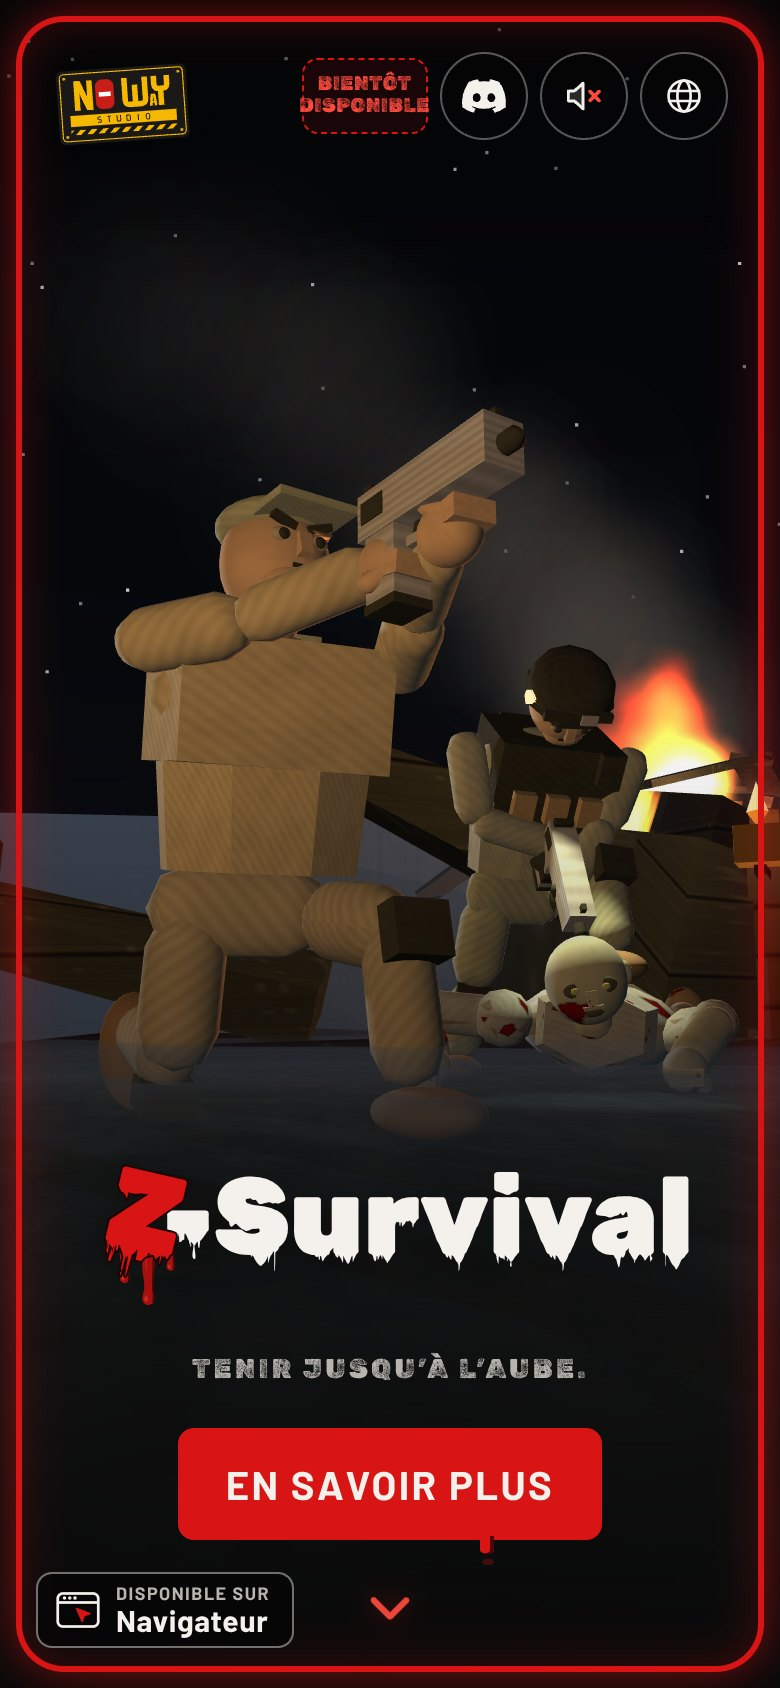
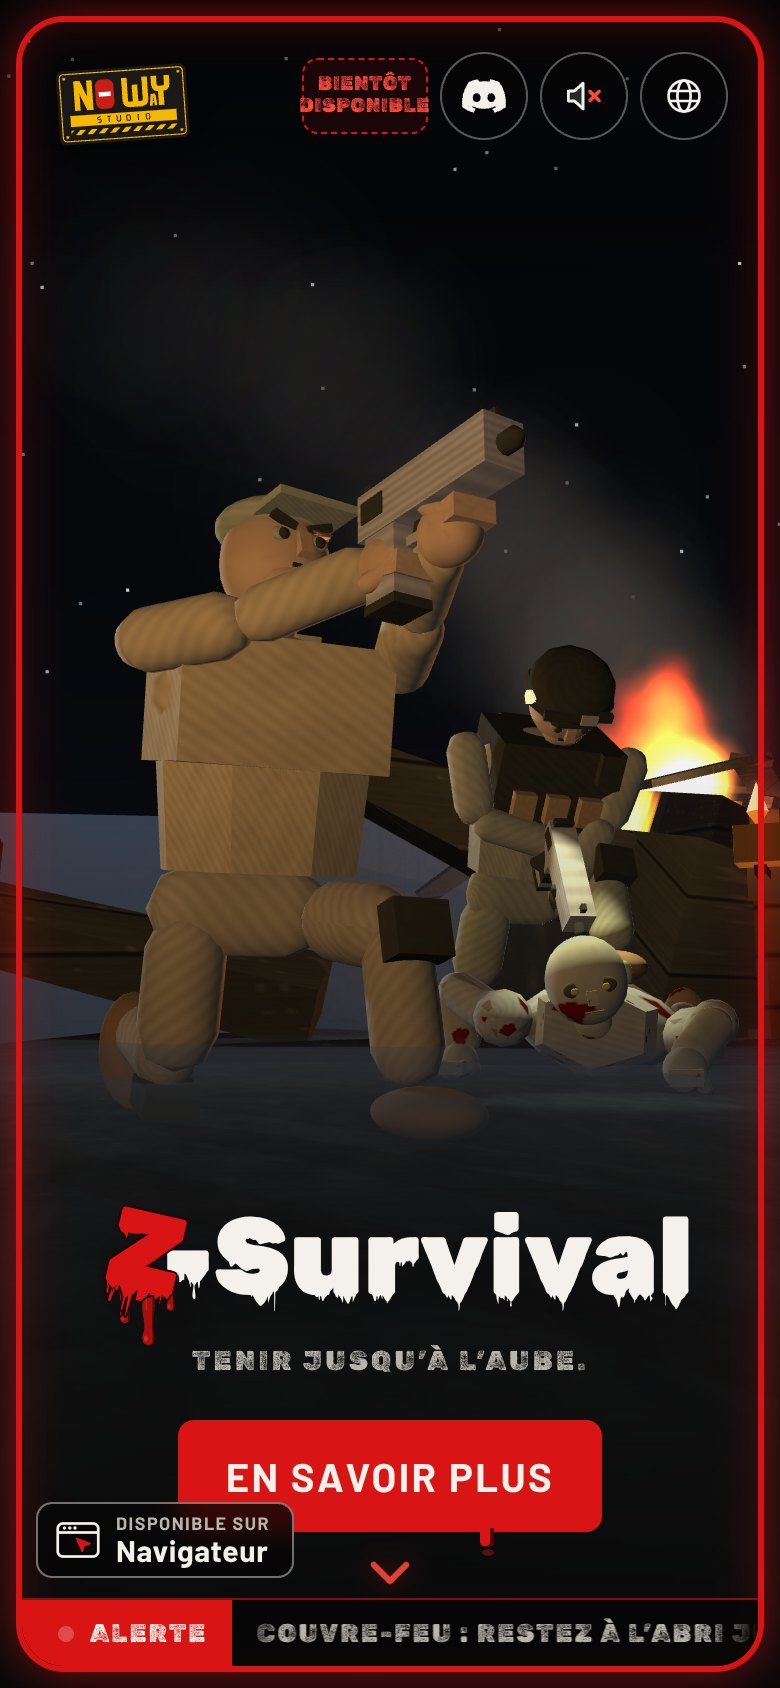
Scène B : bras droit du zombie qui ne bascule plus, bouche fermée au repos ; bandeau d'alerte en service
Claude-Session: https://claude.ai/code/session_01MNJ5sjUGh1ZP7ZtMtEWThH

diff --git a/scene/js/poses.js b/scene/js/poses.js
@@ -191,15 +191,19 @@ export function poseZombie(z, stage, t, appui) {
   const coudeL = local(z, 20, 16, 26).lerp(sh.clone().add(versSpect.clone().multiplyScalar(10 * K)).add(V(0, 6 * K, 0)), lisse);
   const doigts = dirWorld(z.root, V(0.08, -0.06, 1)).lerp(versSpect, lisse).normalize();
   arm(z, 'L', mainL, coudeL, doigts, dirWorld(z.root, V(0, -1, 0)));
-  // Bouche : elle s'ouvre quand il tend le bras (et claque un peu des dents pendant qu'il le garde tendu).
+  // Bouche : fermée au repos, elle s'ouvre quand il tend le bras (et claque un peu des dents pendant qu'il le garde tendu).
   const bouche = z.bones.get('boucheZ');
-  if (bouche) bouche.scale.set(1 + 0.15 * lisse, 1 + lisse * (1.0 + 0.15 * onde(t, 16)), 1);
+  // Fermée au repos (retour du propriétaire) : écrasée à 12 % (un trait sombre) ; grande ouverte bras tendu.
+  if (bouche) bouche.scale.set(1 + 0.15 * lisse, 0.12 + lisse * (1.88 + 0.15 * onde(t, 16)), 1);
   const g = cycle(t, 4);
-  // Griffe : la main avance au-dessus du sol (25 % du cycle), se pose, puis racle vers l'arrière (75 %).
+  // Griffe : la main se lève et avance (25 % du cycle), se pose loin devant, puis racle le sol en revenant vers le corps (75 %).
+  // Le coude reste toujours du même côté, en dehors et au-dessus du bras (point de pliage qui suit la main) : avant, fixe, il faisait
+  // basculer le coude d'un côté à l'autre à chaque coup (retour du propriétaire : « le bras se désaxe »).
   const rake = g < 0.25 ? g / 0.25 : 1 - (g - 0.25) / 0.75;
   const lift = g < 0.25 ? Math.sin(Math.PI * (g / 0.25)) * 3.5 : 0;
   const s = rake * rake * (3 - 2 * rake);
-  arm(z, 'R', local(z, -17, 3.8 + lift, 27 - 13 * s), local(z, -30, 17, 14), dirWorld(z.root, V(-0.15, -0.12 - 0.25 * (1 - s), 1)), dirWorld(z.root, V(0, -1, 0)));
+  const mainZ = 14 + 13 * s;
+  arm(z, 'R', local(z, -17, 3.8 + lift, mainZ), local(z, -30, 18, mainZ - 7), dirWorld(z.root, V(-0.15, -0.12 - 0.25 * s, 1)), dirWorld(z.root, V(0, -1, 0)));
 }
 
 // --- Personnage 2 : un pied sur le dos du zombie, le vise vers le bas ---------------------------------------------------------------

diff --git a/js/accueil-bandeau.js b/js/accueil-bandeau.js
@@ -1,5 +1,5 @@
-// Accueil : bandeau d'alerte qui défile en bas (idée « catchy » n° 5). Affiché seulement avec ?bandeau=1 dans l'adresse (l'aperçu
-// scene/apercu.html?bandeau=1 le transmet) tant que le propriétaire ne l'a pas mis en service sur le site public.
+// Accueil : bandeau d'alerte qui défile en bas (idée « catchy » n° 5). En service sur le site public (décision du propriétaire) ;
+// ?bandeau=0 dans l'adresse le cache (pour comparer).
 // Messages : SOURCE_BANDEAU (aujourd'hui le fichier contenus/bandeau.json, modifiable sans toucher au code ; demain l'adresse de l'API de
 // l'interface d'administration, même format : Docs/ref/contenus.md). Format : { messages: [{ id, actif, fr, en }] }, texte brut seulement.
 // La piste contient deux fois la liste : le défilement (CSS) boucle sans saut. Les lecteurs d'écran lisent la première copie ; la seconde est
@@ -7,7 +7,7 @@
 // Lot 3b : le titre du dernier article publié passe en tête du bandeau, avec un lien vers l'article (#actu/<slug>), quand il y en a un.
 import { langue, t } from './i18n.js';
 
-export const BANDEAU_ACTIF = new URLSearchParams(window.location.search).get('bandeau') === '1';
+export const BANDEAU_ACTIF = new URLSearchParams(window.location.search).get('bandeau') !== '0';
 export const SOURCE_BANDEAU = 'contenus/bandeau.json';
 
 // Messages valides de la source (chargée une seule fois) : { id, fr, en } avec au moins le français.

diff --git a/js/textes.js b/js/textes.js
@@ -31,7 +31,7 @@ export const TEXTES = {
         petit: 'Disponible sur',
         grand: 'Navigateur',
       },
-      // Bandeau d'alerte (idée « catchy » n° 5, affiché avec ?bandeau=1) : étiquette et nom accessible ; les messages sont dans
+      // Bandeau d'alerte (idée « catchy » n° 5, en service) : étiquette et nom accessible ; les messages sont dans
       // contenus/bandeau.json (modifiables sans toucher au code, puis par l'interface d'administration).
       bandeau: {
         titre: 'Alerte',
@@ -133,7 +133,7 @@ export const TEXTES = {
         petit: 'Available on',
         grand: 'Browser',
       },
-      // Alert ticker ("catchy" idea no. 5, shown with ?bandeau=1): label and accessible name; the messages live in
+      // Alert ticker ("catchy" idea no. 5, live): label and accessible name; the messages live in
       // contenus/bandeau.json (editable without touching the code, later through the admin interface).
       bandeau: {
         titre: 'Alert',

diff --git a/scene/js/enrichissements.js b/scene/js/enrichissements.js
@@ -60,8 +60,10 @@ function visageZombie() {
     parts.push(sphere(`oeil${s > 0 ? 'L' : 'R'}`, 'head', 'yeux', [0.5, 0.42, 0.3], [x, 5.0, 4.62], { skin: false }));
   }
   parts.push(box('nez', 'head', 'peau', [1.1, 1.6, 1.1], [0, 4.0, 4.7], [-0.2, 0, 0], { skin: true }));
+  // Au repos, l'articulation est écrasée (bouche fermée : un trait sombre) ; elle s'agrandit quand il tend le bras (js/poses.js). Les dents
+  // du haut sont portées par la même articulation : elles n'apparaissent que bouche ouverte.
   parts.push(sphere('bouche', BOUCHE.id, 'sombre', [1.5, 0.85, 1.3], [0, 0, 0]));
-  parts.push(box('dents', 'head', 'crasse', [2.2, 0.45, 0.5], [0, 2.85, 4.45], [0.15, 0, 0], { skin: false }));
+  parts.push(box('dents', BOUCHE.id, 'crasse', [2.1, 0.4, 0.5], [0, 0.5, 1.0], [0.15, 0, 0], { skin: false }));
   return parts;
 }
 // Pouces (les mains du jeu : une sphère et une boîte de doigts).

diff --git a/scene/js/apercu.js b/scene/js/apercu.js
@@ -54,10 +54,10 @@ function relaisNeige() {
 (function attendreScene() {
   const w = document.getElementById('scene').contentWindow;
   if (w?.__scene?.ready || w?.__sceneError) {
-    // ?lang= et ?bandeau=1 (bandeau d'alerte à l'essai) sont transmis au site.
+    // ?lang= et ?bandeau= (?bandeau=0 cache le bandeau d'alerte) sont transmis au site.
     const siteParams = new URLSearchParams({ video: '0' }); // la scène 3D tient lieu de vidéo
     if (q.get('lang')) siteParams.set('lang', q.get('lang'));
-    if (q.get('bandeau') === '1') siteParams.set('bandeau', '1');
+    if (q.get('bandeau')) siteParams.set('bandeau', q.get('bandeau'));
     site = document.createElement('iframe');
     site.id = 'site';
     site.className = 'couche';

diff --git a/index.html b/index.html
@@ -120,7 +120,7 @@
         </div>
       </div>
 
-      <!-- Bandeau d'alerte qui défile (essai, idée « catchy » n° 5) : caché sauf avec ?bandeau=1 (js/accueil-bandeau.js). -->
+      <!-- Bandeau d'alerte qui défile (idée « catchy » n° 5, en service ; ?bandeau=0 le cache) : affiché par js/accueil-bandeau.js. -->
       <div class="accueil-bandeau" role="marquee" data-t-aria="accueil.bandeau.aria" aria-label="Messages d’alerte" hidden>
         <span class="bandeau-titre" data-t="accueil.bandeau.titre">Alerte</span>
         <div class="bandeau-fenetre"><div class="bandeau-piste"></div></div>

diff --git a/Docs/ref/idees-accroche.md b/Docs/ref/idees-accroche.md
@@ -10,7 +10,7 @@ Toutes respectent « réduire les animations » et restent légères (HTML, CSS,
 | 2 | **Entrée en scène** : grain VHS qui se dissipe sur l'image animée, chute du Z (écran de chargement du jeu), coulures. | **Fait** (lot 2b : 1,5 s, première visite de la session, passable) |
 | 3 | Parallaxe : l'image animée bouge légèrement avec la souris ou l'inclinaison du téléphone. | Écartée (choix du propriétaire) |
 | 4 | **Accroche « radio de survie »** : elle s'écrit lettre par lettre (lettre brouillée puis la vraie) et grésille de temps en temps. | **Fait** |
-| 5 | **Bandeau d'alerte** qui défile en bas (flash d'urgence ; peut annoncer les actualités). | **À l'essai** : visible seulement avec `?bandeau=1` |
+| 5 | **Bandeau d'alerte** qui défile en bas (flash d'urgence ; annonce le dernier article). | **Fait, en service** (`?bandeau=0` le cache) |
 | 6 | Bouton « En savoir plus » vivant au survol (coup de pinceau, coulure de sang). | **Fait** (lot 2b) |
 | 7 | Curseur viseur sur ordinateur, au-dessus de l'accueil. | À faire |
 
@@ -73,10 +73,9 @@ Toutes respectent « réduire les animations » et restent légères (HTML, CSS,
     l'ancienne page du site puis la remplaçait, et la nouvelle page arrivait sans la feuille transparente (écran noir) ;
   - la feuille qui rend le fond de l'accueil transparent est ajoutée à chaque nouvelle page du site, avant son premier affichage.
 
-## 5 — Bandeau d'alerte (à l'essai)
-- **Pas encore sur le site public** : le propriétaire n'est pas sûr de le garder. Il ne s'affiche qu'avec `?bandeau=1` dans l'adresse :
-  https://nowyyy.github.io/Z-Survival-Website/scene/apercu.html?bandeau=1 (sur la scène 3D) ou
-  https://nowyyy.github.io/Z-Survival-Website/?bandeau=1 (le site seul). Sans ce paramètre, rien ne change.
+## 5 — Bandeau d'alerte (en service)
+- **En service sur le site public** (décision du propriétaire, après essai avec `?bandeau=1`). `?bandeau=0` dans l'adresse le cache, pour
+  comparer. Messages par défaut de `contenus/bandeau.json` ; le lot 3b met le titre du dernier article publié en tête, avec un lien.
 - **Aspect** : collé au bas du cadre rouge, à l'intérieur ; étiquette « Alerte » rouge avec un voyant qui clignote ; messages qui
   défilent de droite à gauche (environ 70 px par seconde), séparés par un losange rouge ; le défilement s'arrête au survol. Le logo,
   l'accroche et le bouton remontent de la hauteur du bandeau. Pendant l'entrée en scène, il glisse en place à 1,7 s.
@@ -85,9 +84,9 @@ Toutes respectent « réduire les animations » et restent légères (HTML, CSS,
   Puis : flèche remontée de 2 px (elle rebondissait trop près du bandeau) et logo « Z-Survival » descendu de 10 px, puis 18, puis 24 px, plus
   près de l'accroche (les coulures du Z, à gauche, descendent au niveau de l'accroche sans la toucher).
 - **Code** : `js/accueil-bandeau.js` (activation par le paramètre, remplissage) ; `css/accueil.css` (« Bandeau d'alerte ») ;
-  bloc `.accueil-bandeau` dans `index.html` (caché par défaut). L'aperçu transmet `?bandeau=1` au site.
+  bloc `.accueil-bandeau` dans `index.html`. L'aperçu transmet `?bandeau=` au site.
 - **Messages** : dans `contenus/bandeau.json` (français et anglais), modifiables sans toucher au code, et plus tard par l'interface
   d'administration (`Docs/ref/contenus.md`). L'étiquette « Alerte » reste dans `js/textes.js`.
 - Lecteurs d'écran : la liste est lue une fois (la copie qui sert à boucler est cachée). Mouvement réduit : pas de défilement.
-- **Pour le garder** : retirer la condition `?bandeau=1` (`BANDEAU_ACTIF` dans `js/accueil-bandeau.js`). **Pour l'abandonner** : retirer
+- **Pour l'abandonner** : retirer
   le bloc de `index.html`, le module, ses styles et ses textes.

diff --git a/Docs/lots/lot-1-retours.md b/Docs/lots/lot-1-retours.md
@@ -186,3 +186,15 @@ Suite du lot 1 (`Docs/lots/lot-1.md`). Branche `lot-1-retours`, PR fusionnée pa
   s'il rampait vers lui ; il tend alors le bras vers le personnage 1. Transmis par l'aperçu :
   https://nowyyy.github.io/Z-Survival-Website/scene/apercu.html?bandeau=1&zombie=vers-p1
 - Contacts mesurés dans les deux versions : pied du personnage 2 sur le dos sans y entrer, mains et corps du zombie au-dessus du sol.
+
+## Douzième retour : bras droit du zombie, bouche fermée, bandeau en service
+- **Main droite du zombie et pied du soldat** : mesuré sur toute la boucle, aucune traversée (au plus près 3,2 unités de la jambe
+  d'appui, 8 de la jambe posée sur le dos).
+- **Bras qui « se désaxait »** : le point vers lequel plie le coude était fixe pendant que la main bougeait ; à chaque coup de griffe, le
+  coude basculait d'un côté à l'autre du bras. Il suit maintenant la main, en dehors et au-dessus : le coude reste du même côté (entre 41°
+  et 111° autour du bras). Le coup de griffe était aussi inversé : la main se lève et avance, se pose loin devant, puis racle le sol en
+  revenant vers le corps.
+- **Bouche fermée au repos** : écrasée à 12 % (un trait), elle s'ouvre seulement quand il tend le bras ; les dents du haut ne se voient
+  que bouche ouverte.
+- **Bandeau d'alerte en service** sur le site public, avec les messages par défaut de `contenus/bandeau.json` ; `?bandeau=0` le cache.
+  Le titre du dernier article publié passe en tête (travail déjà fait par le lot 3b, gardé).

diff --git a/CLAUDE.md b/CLAUDE.md
@@ -80,7 +80,7 @@ Adresse du site : **https://zsurvival-game.com/** (sans `www`, qui y redirige ; 
   `js/accueil-entree.js` : entrée en scène de l'accueil (chute du Z copiée du jeu dans `css/accueil-chute-z.css`, puis grain VHS ; 1,5 s,
   première visite de la session, `?intro=1` la force) ;
   `js/accueil-accroche.js` : accroche « radio de survie » (écriture lettre par lettre pendant l'entrée ; grésillement en CSS) ;
-  `js/accueil-bandeau.js` : bandeau d'alerte qui défile (affiché seulement avec `?bandeau=1` tant qu'il n'est pas mis en service) ;
+  `js/accueil-bandeau.js` : bandeau d'alerte qui défile en bas de l'accueil (en service ; `?bandeau=0` le cache) ;
   `js/accueil-tir.js` : suit le temps de la vidéo et, à `TEMPS_TIR`, flash du cadre rouge et coup de feu du jeu si le son est activé (idées « catchy » suivies dans `Docs/ref/idees-accroche.md`).
 - `musique/` : propositions de musique (MP3 en boucle, points de boucle dans `boucles.json` ; **M2 retenue**, règles
   d'intégration dans `Docs/ref/musique.md`) et planche d'écoute
